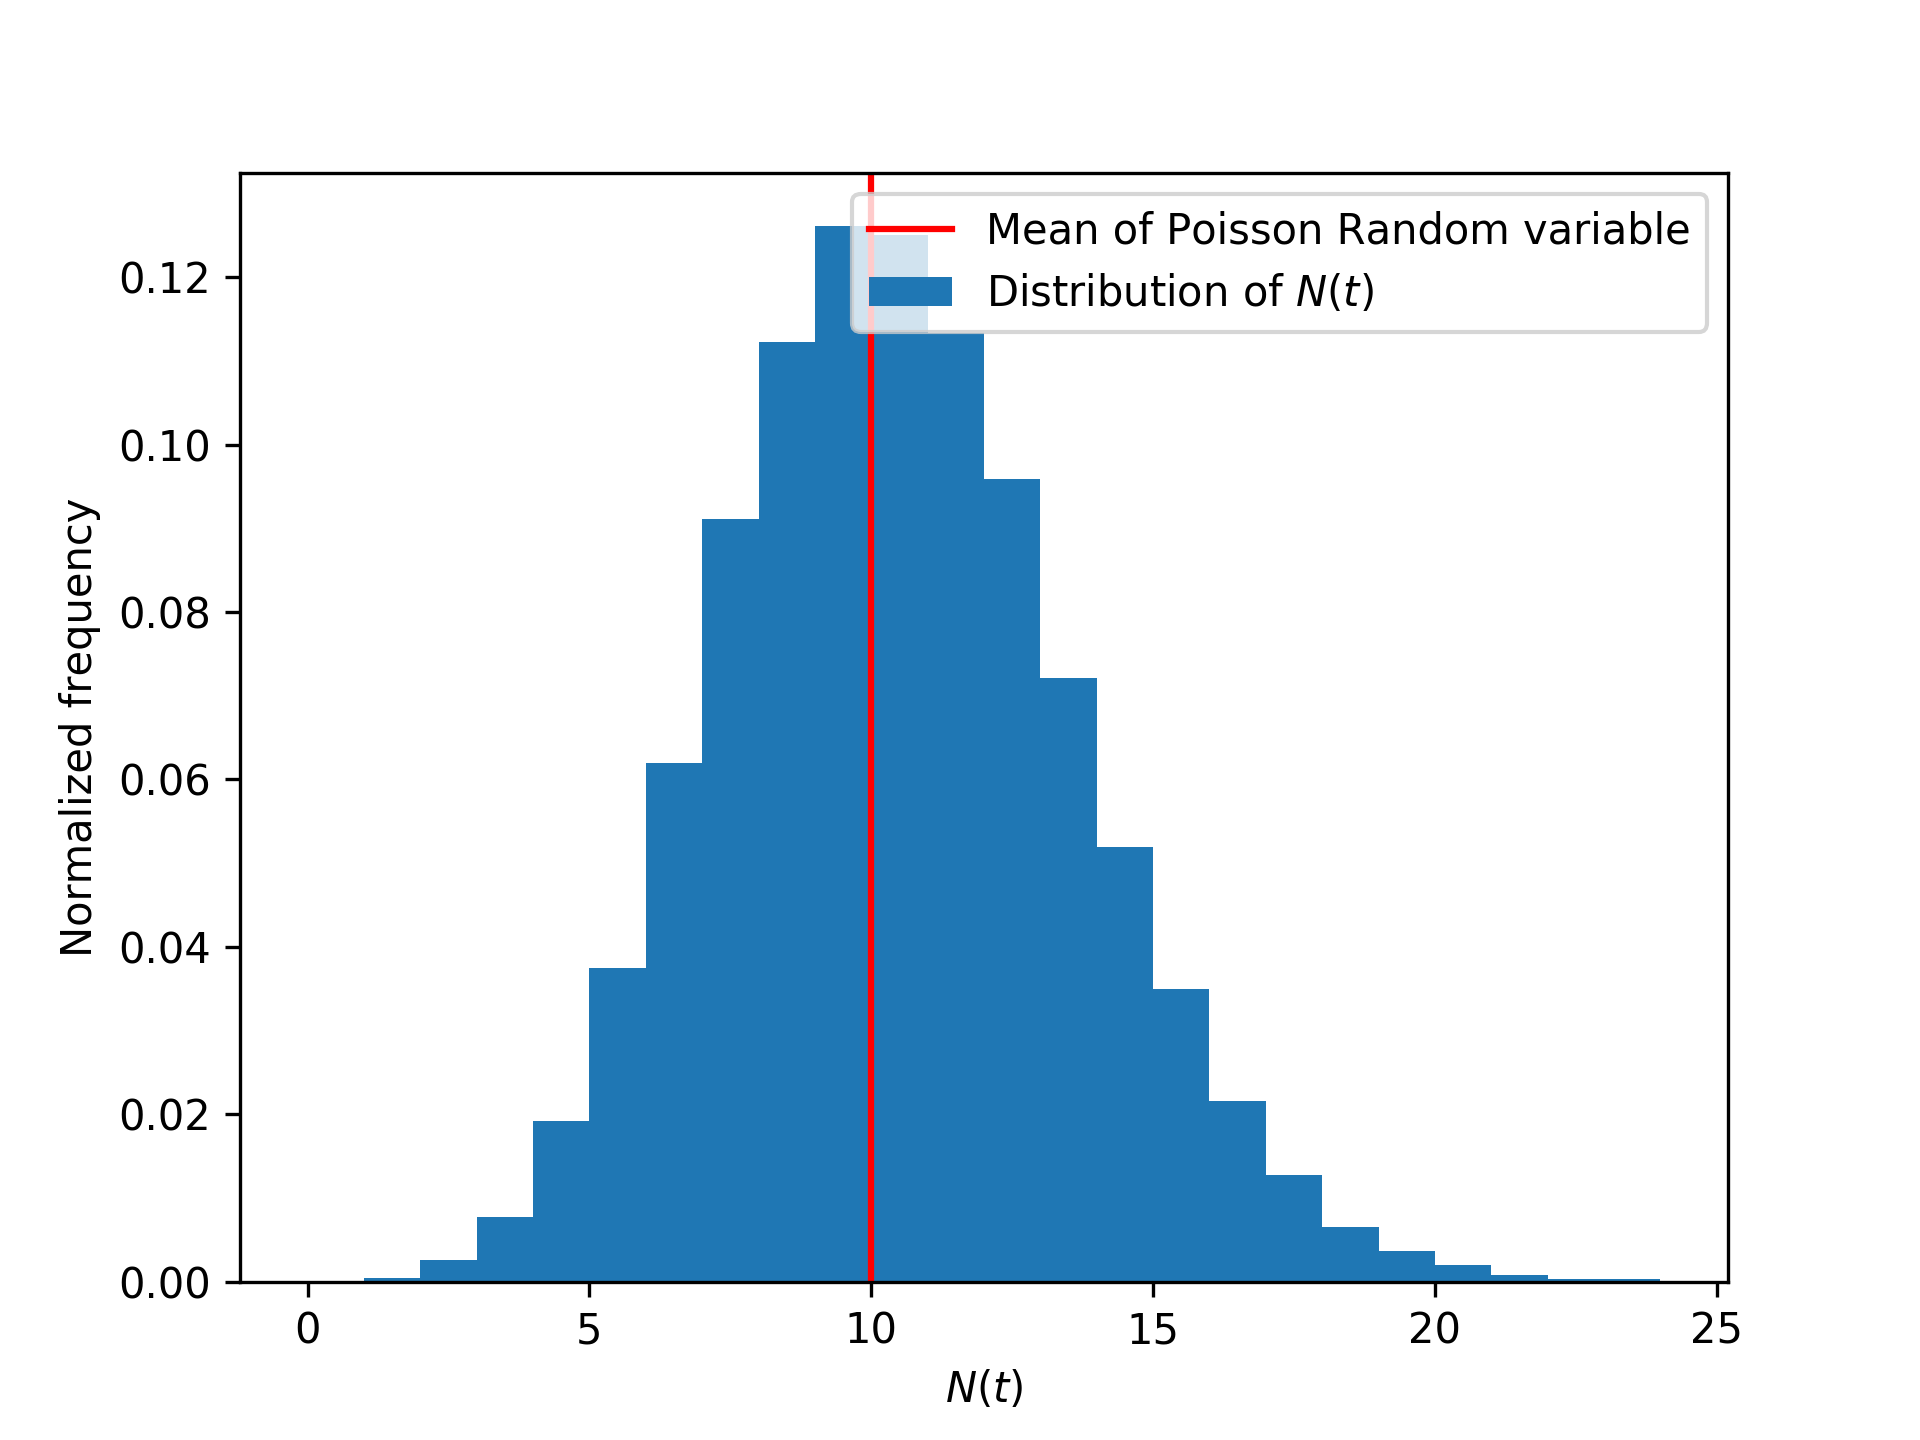
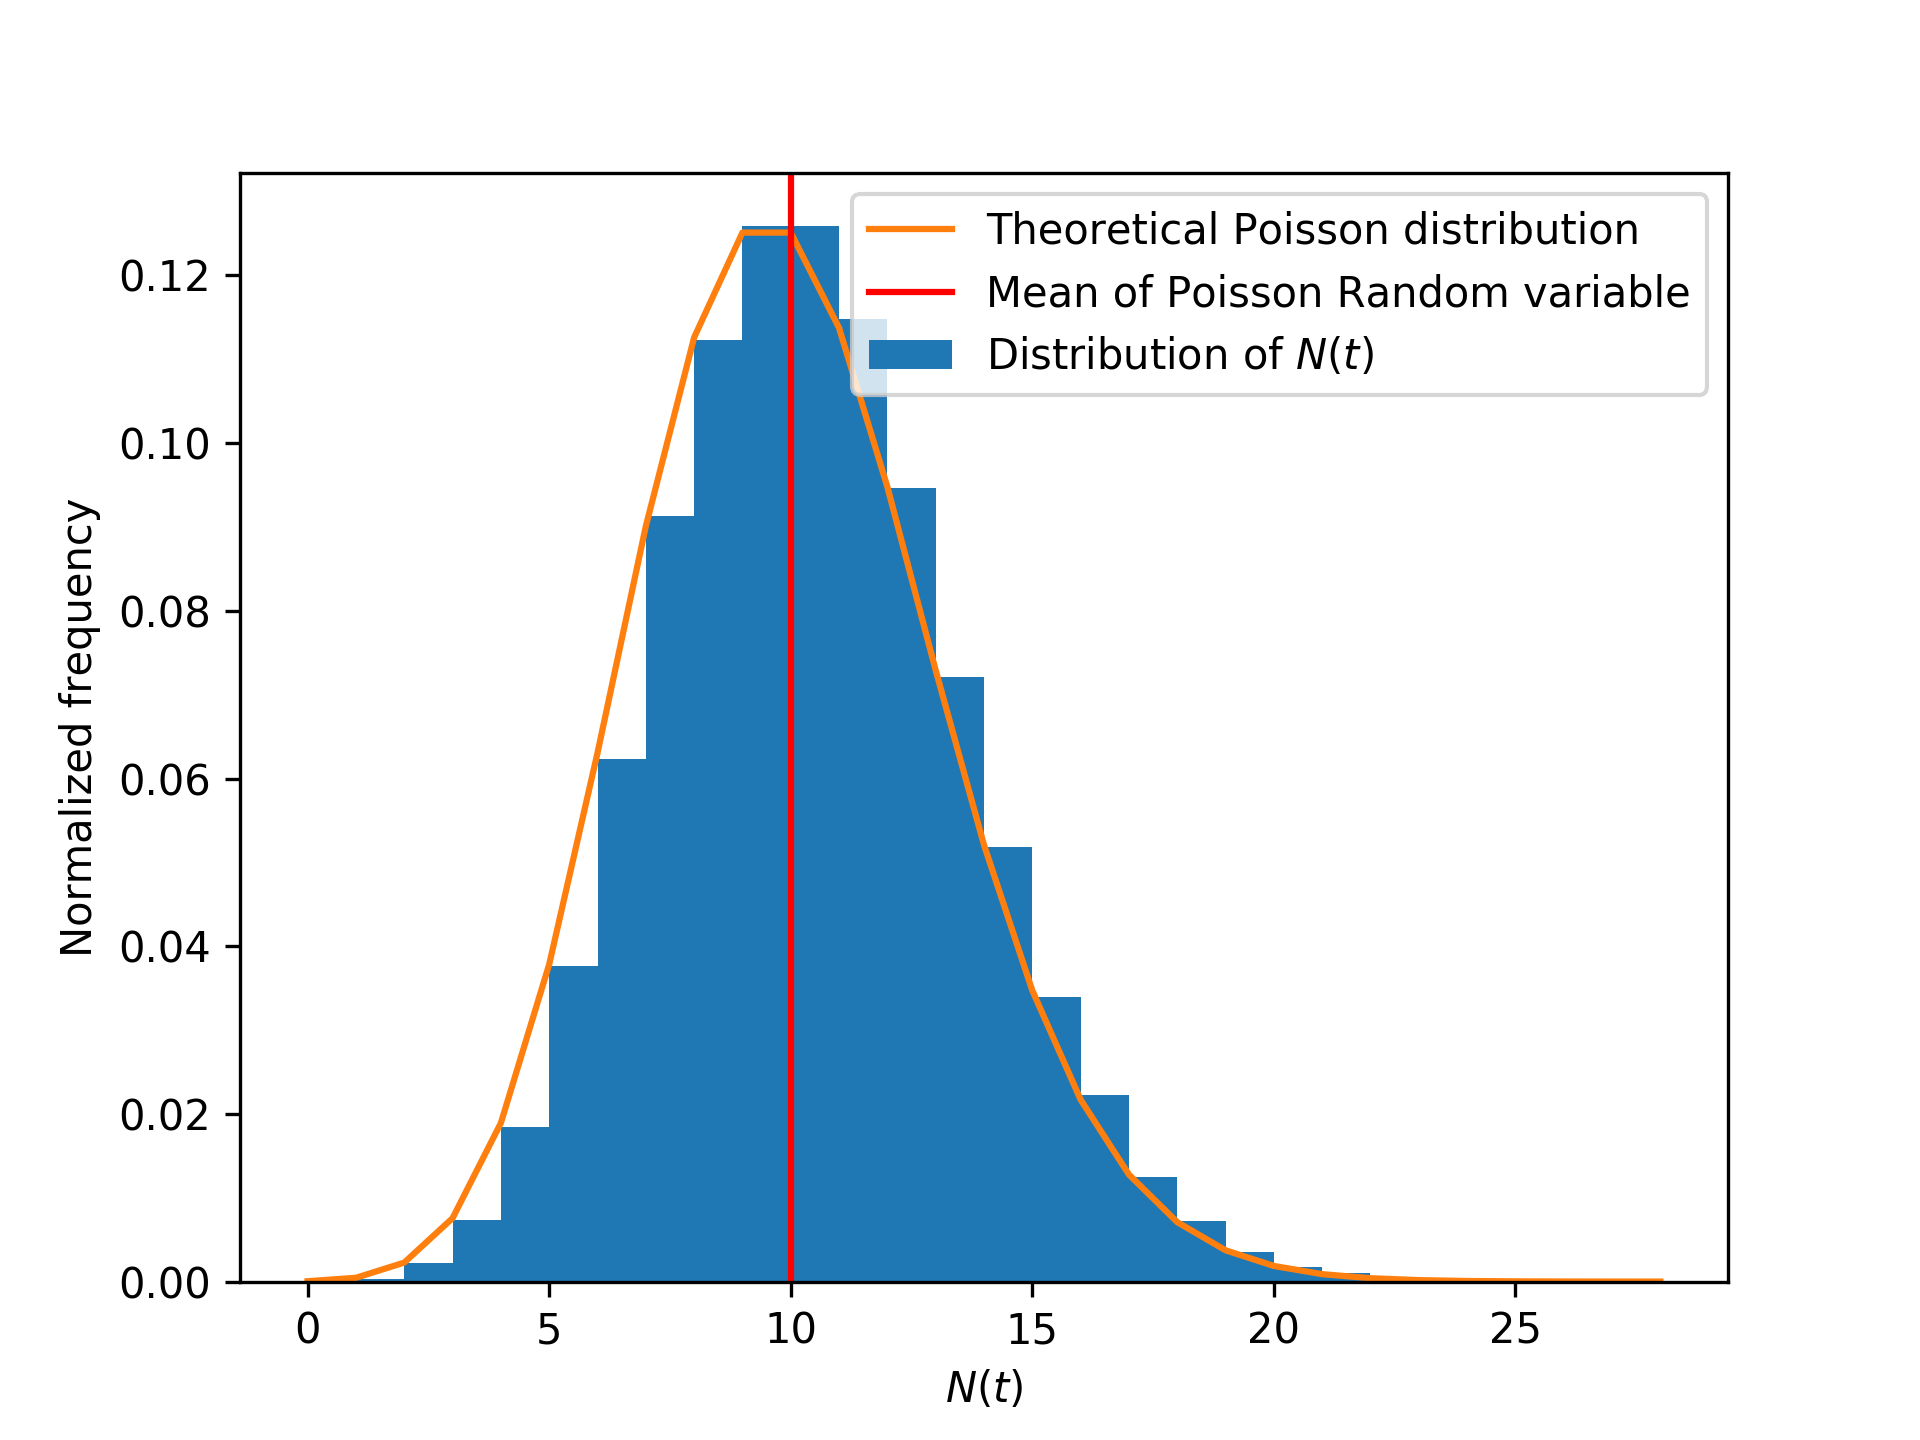
Added: Comparing distribution of N(t) with theoretical Poisson RV

diff --git a/poissonProcess.py b/poissonProcess.py
@@ -1,5 +1,6 @@
 import numpy as np
 import matplotlib.pyplot as plt
+from scipy.stats import poisson
 
 def poissonProcess(t, rate, h):
     timeArray = np.linspace(0, t, int((t - 0) / h) + 1)
@@ -18,10 +19,15 @@ def generateDistributionOfPoissonProcess(t, rate, experiments=100, h=0.01):
 	timeArr, numberOfEventsArr = poissonProcess(t, rate, h)
 	numberOfEventsAtT[i] = numberOfEventsArr[-1]
 
+    k = np.arange(np.min(numberOfEventsAtT), np.max(numberOfEventsAtT), 1.0)
+    theoreticalMean = t * rate
+    theoretical = [poisson.pmf(i, theoreticalMean) for i in k]
+
     plt.hist(numberOfEventsAtT, normed=True, bins=np.arange(
 	np.min(numberOfEventsAtT), np.max(numberOfEventsAtT), 1.0), label=r'Distribution of $N(t)$')
-    plt.axvline(t * rate, color='r', label='Mean of Poisson Random variable')
-
+    plt.plot(k, theoretical, label='Theoretical Poisson distribution')
+    plt.axvline(theoreticalMean, color='r', label='Mean of Poisson Random variable')
+    
     plt.xlabel(r'$N(t)$')
     plt.ylabel('Normalized frequency')
     plt.legend()
